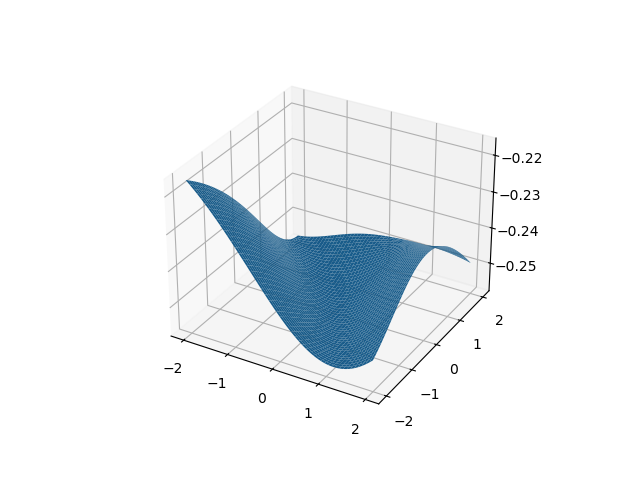
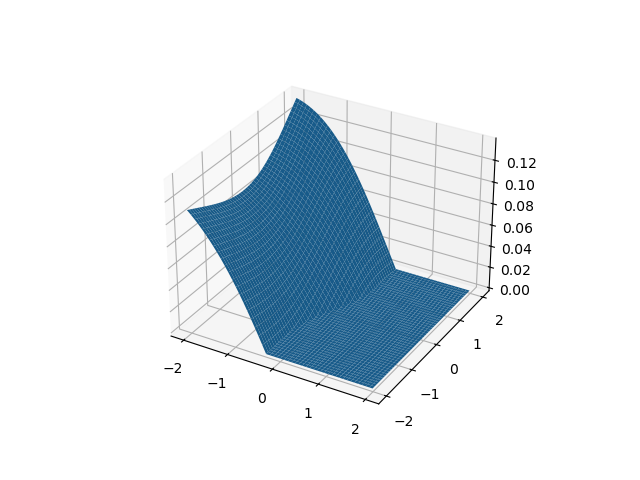
Test structural enforcement

diff --git a/networks.py b/networks.py
@@ -2,31 +2,11 @@ import numpy as np
 import torch
 from torch import nn
 
-class test_NN(nn.Module):
-    def __init__(self):
-        super().__init__()
-        
-    
-
-        self.flatten = nn.Flatten()
-        self.linear_tanh_stack = nn.Sequential(
-            nn.Linear(2, 8),
-            nn.Tanh(),
-            nn.Linear(8, 8),
-            nn.Tanh(),
-            nn.Linear(8, 1),
-            #nn.ReLU()
-        )
-        #def init_weights(m):
-        #    if isinstance(m, nn.Linear):
-        #        #torch.nn.init.xavier_uniform(m.weight)
-        #        m.weight.data.fill_(0.01)
-        #        m.bias.data.fill_(0.01)
-        #self.linear_tanh_stack.apply(init_weights)
+class template_NN(nn.Module):
 
     def forward(self, x):
         #x = self.flatten(x)
-        output = self.linear_tanh_stack(x)
+        output = self.forward_stack(x)
         return output
 
 
@@ -44,3 +24,40 @@ class test_NN(nn.Module):
         pred_deriv = torch.sum(torch.multiply(nn_grad, deriv), 1)
         #pred_deriv = nn_grad@deriv.T
         return pred_deriv
+
+class test_NN(template_NN):
+    def __init__(self):
+        super().__init__()
+        
+    
+
+        self.flatten = nn.Flatten()
+        self.forward_stack = nn.Sequential(
+            nn.Linear(2, 8),
+            nn.Tanh(),
+            nn.Linear(8, 8),
+            nn.Tanh(),
+            nn.Linear(8, 1),
+            #nn.ReLU()
+        )
+        #def init_weights(m):
+        #    if isinstance(m, nn.Linear):
+        #        #torch.nn.init.xavier_uniform(m.weight)
+        #        m.weight.data.fill_(0.01)
+        #        m.bias.data.fill_(0.01)
+        #self.linear_tanh_stack.apply(init_weights)
+
+
+class structural_lyapunov(template_NN):
+    def __init__(self):
+        super().__init__()
+
+        self.flatten = nn.Flatten()
+        self.forward_stack = nn.Sequential(
+            nn.Linear(2, 8, bias=False),
+            nn.Tanh(),
+            nn.Linear(8, 8, bias=False),
+            nn.Tanh(),
+            nn.Linear(8, 1, bias=False),
+            nn.ReLU()
+        )

diff --git a/test.py b/test.py
@@ -32,7 +32,7 @@ with open("trajectory_data.pkl", 'rb') as f:
 
 trajectories = data
 
-net = networks.test_NN().to(device)
+net = networks.structural_lyapunov().to(device)
 for k in tqdm(range(training_loops_per_run)):
     trainer.train_lyap(trajectories, net, device)           #start_time = time.perf_counter()
                                                             #trajectories = []
